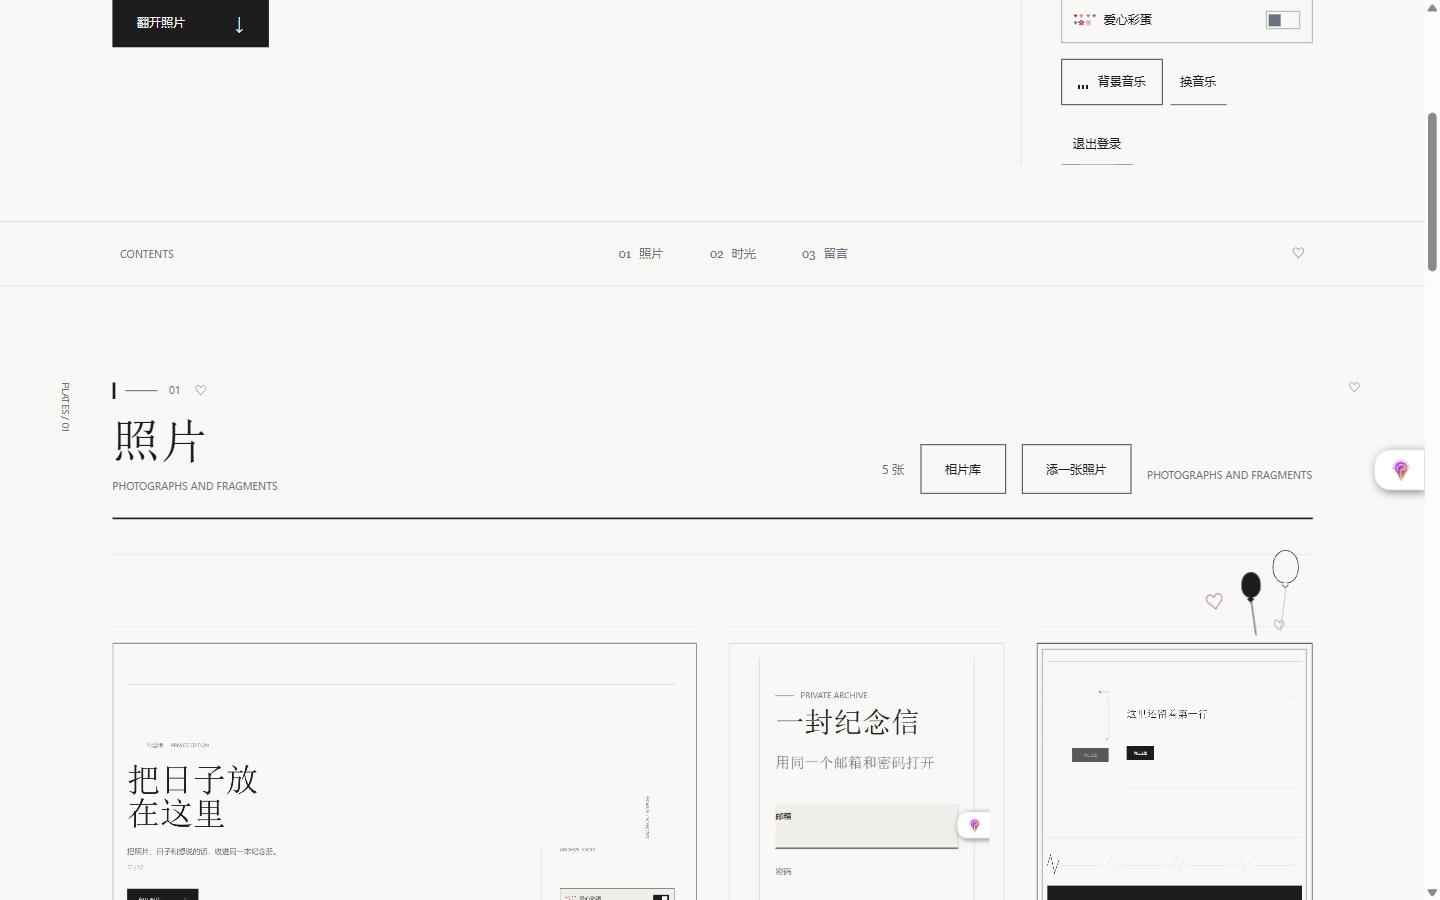
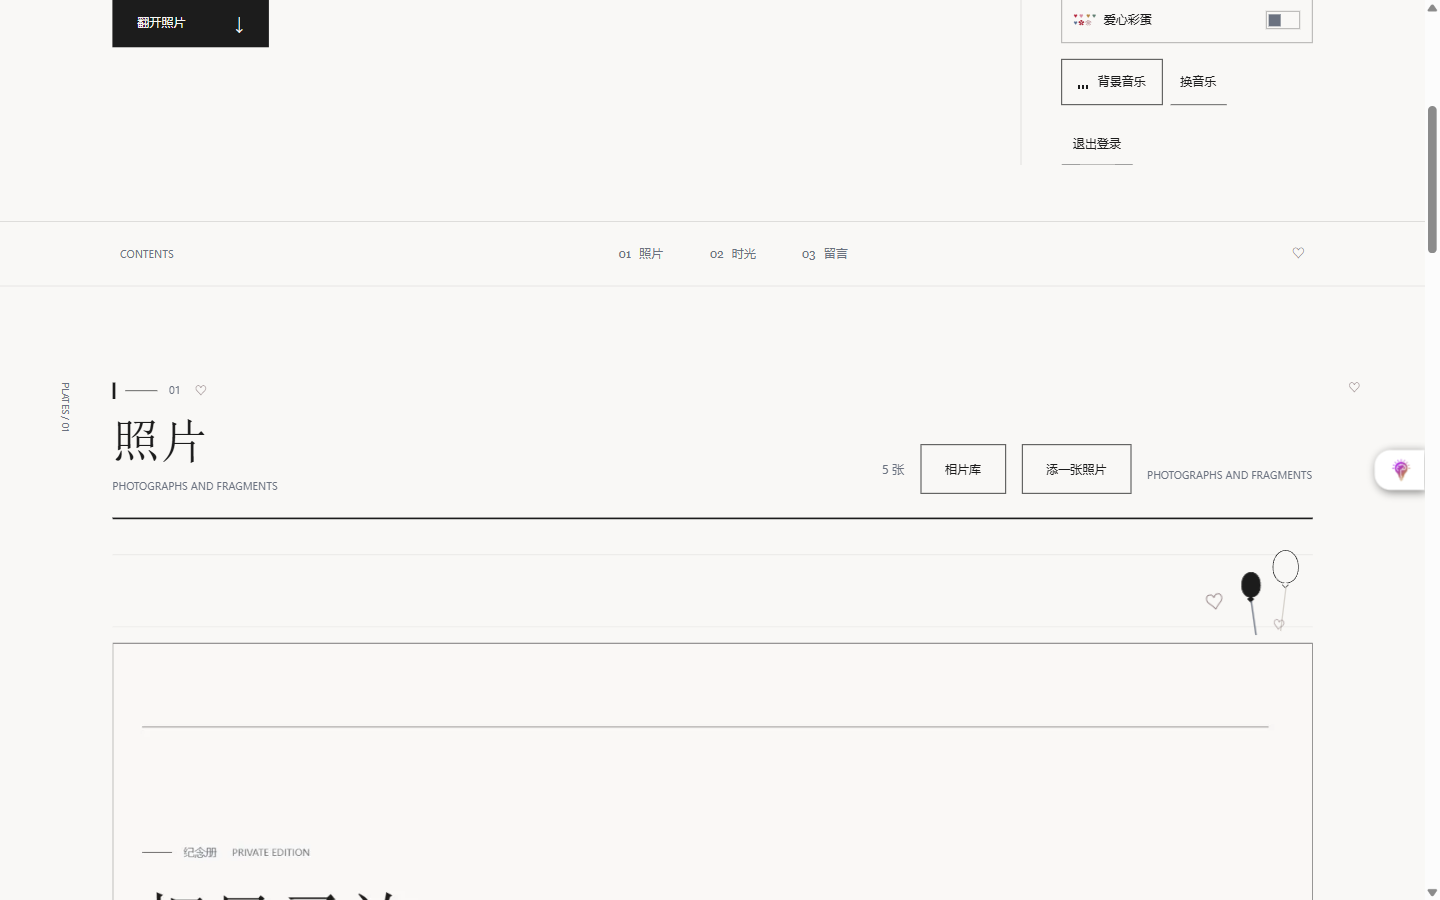
fix: pack photo wall without empty gaps

diff --git a/src/ui/PhotoWall.tsx b/src/ui/PhotoWall.tsx
@@ -54,6 +54,37 @@ export function photoCardClass(index: number, isRecent = false): string {
   return `photo-card ${frame} ${composition}${isRecent ? ' is-new' : ''}`.trim()
 }
 
+export function photoLayoutGroups(count: number): number[][] {
+  const groups: number[][] = []
+
+  for (let index = 0; index < count; index += 1) {
+    if (index % 7 === 0) groups.push([index])
+    else groups[groups.length - 1].push(index)
+  }
+
+  return groups
+}
+
+export function photoColumnCount(viewportWidth: number): number {
+  if (viewportWidth >= 1200) return 4
+  if (viewportWidth >= 768) return 3
+  return 2
+}
+
+export function photoColumnBuckets(indexes: number[], count: number): number[][] {
+  const buckets = Array.from({ length: count }, () => [] as number[])
+  const heights = Array.from({ length: count }, () => 0)
+
+  for (const index of indexes) {
+    const target = heights.indexOf(Math.min(...heights))
+    buckets[target].push(index)
+    heights[target] +=
+      index % 5 === 2 ? 1 : index % 5 === 3 ? 4 / 3 : 5 / 4
+  }
+
+  return buckets
+}
+
 interface PhotoWallProps {
   photos: PhotoItem[]
   cloudState: CloudState
@@ -111,6 +142,23 @@ export function PhotoWall({
   const [selected, setSelected] = useState<PhotoItem | null>(null)
   const [libraryOpen, setLibraryOpen] = useState(false)
   const [recentIds, setRecentIds] = useState<Set<string>>(new Set())
+  const [columnCount, setColumnCount] = useState(() =>
+    photoColumnCount(typeof window === 'undefined' ? 375 : window.innerWidth),
+  )
+
+  useEffect(() => {
+    const desktop = window.matchMedia('(min-width: 1200px)')
+    const tablet = window.matchMedia('(min-width: 768px)')
+    const sync = () => setColumnCount(photoColumnCount(window.innerWidth))
+
+    sync()
+    desktop.addEventListener('change', sync)
+    tablet.addEventListener('change', sync)
+    return () => {
+      desktop.removeEventListener('change', sync)
+      tablet.removeEventListener('change', sync)
+    }
+  }, [])
 
   const closeViewer = useCallback(() => setSelected(null), [])
   const writable =
@@ -221,6 +269,36 @@ export function PhotoWall({
     void processFiles([task.file])
   }
 
+  const renderPhotoCard = (photo: PhotoItem, index: number) => (
+    <article key={photo.id} className={photoCardClass(index, recentIds.has(photo.id))}>
+      <button
+        type="button"
+        className="photo-open"
+        aria-label={`${photo.note || photo.filename}，${formatDate(photo.takenAt)}`}
+        onClick={() => setSelected(photo)}
+      >
+        <span className="photo-frame">
+          <PhotoImage
+            photo={photo}
+            store={store}
+            cloudState={cloudState}
+            className="photo-image"
+            eager={index < 4}
+          />
+        </span>
+        <span className="photo-caption">
+          <time dateTime={photo.takenAt}>{formatDate(photo.takenAt)}</time>
+          {photo.note ? <span>{photo.note}</span> : null}
+        </span>
+      </button>
+      {recentIds.has(photo.id) ? (
+        <span className="photo-fresh-label" aria-hidden="true">
+          新入册
+        </span>
+      ) : null}
+    </article>
+  )
+
   return (
     <section id="photos" className="section photo-section" aria-labelledby="photos-title">
       <header className="section-header">
@@ -297,39 +375,26 @@ export function PhotoWall({
             </button>
           </div>
         ) : (
-          <div className="photo-grid">
-            {photos.map((photo, index) => (
-              <article
-                key={photo.id}
-                className={photoCardClass(index, recentIds.has(photo.id))}
-              >
-                <button
-                  type="button"
-                  className="photo-open"
-                  aria-label={`${photo.note || photo.filename}，${formatDate(photo.takenAt)}`}
-                  onClick={() => setSelected(photo)}
-                >
-                  <span className="photo-frame">
-                    <PhotoImage
-                      photo={photo}
-                      store={store}
-                      cloudState={cloudState}
-                      className="photo-image"
-                      eager={index < 4}
-                    />
-                  </span>
-                  <span className="photo-caption">
-                    <time dateTime={photo.takenAt}>{formatDate(photo.takenAt)}</time>
-                    {photo.note ? <span>{photo.note}</span> : null}
-                  </span>
-                </button>
-                {recentIds.has(photo.id) ? (
-                  <span className="photo-fresh-label" aria-hidden="true">
-                    新入册
-                  </span>
-                ) : null}
-              </article>
-            ))}
+          <div className="photo-album">
+            {photoLayoutGroups(photos.length).map((group) => {
+              const [featureIndex, ...columnIndexes] = group
+              const visibleColumns = Math.min(columnCount, columnIndexes.length)
+              const columns = photoColumnBuckets(columnIndexes, visibleColumns)
+              return (
+                <div className="photo-album-group" key={photos[featureIndex].id}>
+                  {renderPhotoCard(photos[featureIndex], featureIndex)}
+                  {visibleColumns > 0 ? (
+                    <div className="photo-columns" data-columns={visibleColumns}>
+                      {columns.map((indexes, columnIndex) => (
+                        <div className="photo-column" key={columnIndex}>
+                          {indexes.map((index) => renderPhotoCard(photos[index], index))}
+                        </div>
+                      ))}
+                    </div>
+                  ) : null}
+                </div>
+              )
+            })}
           </div>
         )}
       </div>

diff --git a/src/styles.css b/src/styles.css
@@ -5581,3 +5581,126 @@ p {
   }
 }
 
+/* Photo packing, v12: full-width features followed by true vertical columns. */
+.photo-album {
+  display: grid;
+  gap: 80px;
+}
+
+.photo-album-group {
+  min-width: 0;
+  display: grid;
+  gap: 64px;
+}
+
+.photo-columns {
+  display: grid;
+  grid-template-columns: repeat(2, minmax(0, 1fr));
+  gap: 64px 32px;
+}
+
+.photo-columns[data-columns="3"] {
+  grid-template-columns: repeat(3, minmax(0, 1fr));
+}
+
+.photo-columns[data-columns="4"] {
+  grid-template-columns: repeat(4, minmax(0, 1fr));
+}
+
+.photo-column {
+  min-width: 0;
+  display: flex;
+  flex-direction: column;
+  gap: 64px;
+}
+
+.photo-column .photo-card {
+  width: 100%;
+  display: block;
+  margin: 0;
+}
+
+.photo-library-grid {
+  display: block;
+  column-fill: balance;
+}
+
+.photo-feature {
+  width: 100%;
+  display: block;
+  grid-column: auto;
+  break-inside: avoid;
+  margin: 0;
+}
+
+.photo-offset {
+  margin-top: 0;
+}
+
+.photo-tall {
+  align-self: auto;
+}
+
+.photo-grid {
+  display: grid;
+  grid-template-columns: repeat(2, minmax(0, 1fr));
+  column-gap: 16px;
+  row-gap: 48px;
+}
+
+.photo-library-grid {
+  columns: 4;
+  column-gap: 24px;
+}
+
+.photo-library-card {
+  width: 100%;
+  display: inline-block;
+  break-inside: avoid;
+  margin: 0 0 32px;
+  vertical-align: top;
+}
+
+@media (min-width: 768px) and (max-width: 1199px) {
+  .photo-library-grid {
+    columns: 3;
+  }
+
+  .photo-grid {
+    grid-template-columns: repeat(3, minmax(0, 1fr));
+  }
+}
+
+@media (min-width: 1200px) {
+  .photo-grid {
+    grid-template-columns: repeat(4, minmax(0, 1fr));
+  }
+}
+
+@media (max-width: 767px) {
+  .photo-album {
+    gap: 56px;
+  }
+
+  .photo-album-group {
+    gap: 48px;
+  }
+
+  .photo-columns {
+    gap: 48px 16px;
+  }
+
+  .photo-column {
+    gap: 48px;
+  }
+
+  .photo-library-grid {
+    columns: 2;
+    column-gap: 16px;
+  }
+
+  .photo-library-card {
+    margin-bottom: 24px;
+  }
+}
+

diff --git a/tests/photo-layout.spec.ts b/tests/photo-layout.spec.ts
@@ -2,6 +2,9 @@ import { describe, expect, it } from 'vitest'
 import {
   PHOTO_FRAME_CLASSES,
   photoCardClass,
+  photoColumnBuckets,
+  photoColumnCount,
+  photoLayoutGroups,
 } from '../src/ui/PhotoWall'
 
 describe('photo wall composition', () => {
@@ -21,5 +24,27 @@ describe('photo wall composition', () => {
     expect(photoCardClass(1, true)).toContain('frame-matte')
     expect(photoCardClass(1, true)).toContain('is-new')
     expect(photoCardClass(1, false)).not.toContain('is-new')
+  })
+
+  it('groups each full-width feature with the following column photos', () => {
+    expect(photoLayoutGroups(0)).toEqual([])
+    expect(photoLayoutGroups(8)).toEqual([
+      [0, 1, 2, 3, 4, 5, 6],
+      [7],
+    ])
+    expect(photoLayoutGroups(10)[1]).toEqual([7, 8, 9])
+  })
+
+  it('uses two, three, and four columns at the responsive breakpoints', () => {
+    expect(photoColumnCount(375)).toBe(2)
+    expect(photoColumnCount(768)).toBe(3)
+    expect(photoColumnCount(1440)).toBe(4)
+  })
+
+  it('balances photos across every available column', () => {
+    const buckets = photoColumnBuckets([1, 2, 3, 4, 5, 6], 4)
+    expect(buckets).toHaveLength(4)
+    expect(buckets.every((bucket) => bucket.length > 0)).toBe(true)
+    expect(buckets.flat().sort((a, b) => a - b)).toEqual([1, 2, 3, 4, 5, 6])
   })
 })

diff --git a/docs/ACCEPTANCE-REPORT.md b/docs/ACCEPTANCE-REPORT.md
@@ -36,7 +36,7 @@
 | A26 [P0] | 通过 | 源码、环境示例与 `dist` | 扫描真实管理密钥与 JWT | 未发现管理密钥赋值或真实密钥；安全警示文字不参与判定 |
 | A27 [P0] | 通过 | 本地 Git 仓库 `main` | 初始化、创建根提交、检查 `.env` 历史/索引和工作区 | `.env` 历史 0 条；`git ls-files --error-unmatch .env` 退出 1；工作区干净；`docs/evidence/A27-git-isolation.txt` |
 | A28 | 未验证 | 登录后 production | ZIP 在新会话恢复 | 鉴权改造后尚未重跑恢复闭环 |
-| A29 | 通过 | production 375 / 768 / 1440 | 渲染 7 张以上照片并检查主照片和轨道 | 每 7 张一张跨两列 3:2 主照片；375/768/1440 保持 2/3/4 轨道，无横向溢出；`docs/UI-POLISH-REPORT.md` |
+| A29 | 通过 | production 375 / 768 / 1440 | 渲染 7 张以上照片并检查主图和列桶 | 每 7 张首张独立整行并保持 3:2；其余照片按高度权重进入 2/3/4 个均衡列桶，混合 4:5、1:1、3:4 与错位节奏，无横向溢出；`docs/UI-POLISH-REPORT.md` |
 | A30 | 通过 | production 375 / 768 / 1440 | 检查气球、爱心、间距和点击层 | 两枚黑白线稿气球和两枚陈玫色爱心独立成带，与标题间距 20–34px，`aria-hidden` 且不拦截操作 |
 | A31 | 通过 | Edge production 375×812 + 私有 `music` Storage | 播放默认音轨；从“换音乐”上传 WAV；刷新；恢复默认 | 上传后的 `audio.src` 为 Supabase 私有签名地址；刷新后仍读到自选音轨；“恢复默认”后重新使用 `/audio/memory-theme.wav`；迁移连续执行两次成功 |
 | A32 | 通过 | production 375 / 768 / 1440 | 核对暖米纸编辑部主题、字体、发丝线、留白、直角和响应式 | 页面底色 `#F9F8F6`、标题为衬线、正文为无衬线；375/768/1440 为 2/3/4 轨、无横向溢出；普通卡片无阴影且圆角为 0；音乐按钮 46px 高 |
@@ -44,7 +44,7 @@
 | A34 | 通过 | production 375 / 768 / 1440 | 切换爱心彩蛋开关，检查粒子、类型、挂载点、点击穿透和减少动态 | 开启后生成 70 枚彩蛋：50 枚五色小爱心、10 枚玫瑰、10 枚花苞；开关具有 `role="switch"` 与 `aria-checked`；层固定挂载到 `BODY`，`pointer-events: none` 且 `aria-hidden`；关闭后粒子归零；减少动态时静态排列 |
 | A35 | 通过 | production 375 / 768 / 1440 | 滚动至留言区与页脚之间，检查心电波形、动画和减少动态 | 分隔带宽 320/657/1200px，均无横向溢出并与页脚保持 32px 间距；脉段颜色 `rgb(28,28,28)`，动画 `heartbeat-scan` 5.6s；减少动态时动画 `none`、显示完整静态波形；`docs/evidence/heartbeat-trace-1440.png` |
 | A36 | 通过 | Edge production 375×812 / 真实共享账号 | 新增临时留言 → 点击“移走这条” → 二次确认 → 刷新 | 仅云端留言显示删除入口；确认弹层标题为“要把这条留言移走吗”；`messages.delete` 成功后条数恢复为 `0`，刷新后不再出现；按钮 49×44px，页面无横向溢出；`docs/evidence/A36-message-delete.txt` |
-| A37 | 通过 | production preview 375×812 / 768×1024 / 1440×900 | 一次上传 5 张临时照片，检查相框、画幅、相片库、查看与删除 | 命中 5 种相框和 3:2、4:5、1:1、3:4、错位 4:5 五种节奏；相片库显示 5 张并可进入大图；逐张删除后刷新为 0，无横向溢出；`docs/evidence/photo-frames-1440.png`、`photo-library-1440.png` |
+| A37 | 通过 | production preview 375×812 / 768×1024 / 1440×900 / 真实上传 | 一次上传 5 张临时照片，检查相框、列桶、相片库、查看与删除 | 命中 5 种相框和 3:2、4:5、1:1、3:4、错位 4:5；375/768/1440 普通照片列宽 320/657/1200 并分别使用 2/3/4 列；相片库显示 5 张并可进入大图；逐张删除后刷新为 0，无横向溢出；`docs/evidence/photo-frames-1440.png`、`photo-library-1440.png` |
 
 ## 真实 Supabase 配置
 
@@ -60,7 +60,7 @@
 ## 最新门禁
 
 ```text
-npm test          12 files / 55 tests passed
+npm test          12 files / 58 tests passed
 npm run typecheck exit 0
 npm run build     exit 0, 106 modules
 ```

diff --git a/docs/SPEC.md b/docs/SPEC.md
@@ -42,7 +42,7 @@
 
 ### F-04 照片墙
 入口：主站默认内容区。  
-行为：375px 为 2 列，768px 为 3 列，1200px 为 4 列；每 7 张照片安排一张跨两列的 3:2 主照片，并循环使用方幅、竖幅与向下错位节奏；照片带拍摄日期与可选说明；五类编辑相框循环应用；点击照片打开只读大图查看层。
+行为：375px 为 2 列，768px 为 3 列，1200px 为 4 列；每 7 张照片安排一张独立占满整行的 3:2 主照片，其余照片通过列桶均衡分布并循环使用方幅、竖幅与向下错位节奏；照片带拍摄日期与可选说明；五类编辑相框循环应用；点击照片打开只读大图查看层。
 边界：照片区提供“相片库”入口，集中展示全部照片缩略图；相片库使用相同的照片数据与查看层，不创建第二份媒体副本。标题与网格间可出现不可交互的两枚黑白纸片气球和两枚小面积陈玫色爱心；装饰不得遮挡内容。图片懒加载；每张都有可读替代文本；大图可用 Escape 关闭，焦点返回原照片；无照片时进入 F-10。
 失败：单张签名地址不可用时显示同尺寸纸张占位与说明，不影响其他照片；整组云端照片不可用时保留公开壳层、已认证会话的本地文本快照和可理解的降级提示，不展示未授权内容。
 

diff --git a/docs/ACCEPTANCE.md b/docs/ACCEPTANCE.md
@@ -44,7 +44,7 @@
 
 ## D. 视觉与音乐增量
 
-- [ ] **A29 非均匀照片编排**：有至少 7 张照片时，每 7 张中的首张横跨两列并保持 3:2，其余照片仍为 4:5；375/768/1440 分别保持 2/3/4 个轨道且无横向溢出。
+- [ ] **A29 非均匀照片编排**：有至少 7 张照片时，每 7 张中的首张作为独立整行 3:2 主图；其余照片按高度权重分布到 2/3/4 个均衡列桶，并混合 4:5、1:1、3:4 与错位节奏；三档均无横向溢出。
 - [ ] **A30 庆祝点缀不干扰**：照片区显示两枚黑白线稿气球和两枚陈玫色爱心；装饰 `aria-hidden`、不拦截点击、不覆盖标题或按钮，陈玫色只用于小面积爱心或选中态。
 - [ ] **A31 自定义背景音乐**：登录后可播放/暂停循环音轨，并通过“换音乐”上传不超过 16MB 的 MP3、WAV 或 M4A；音频保存到私有 `music` 桶，刷新及另一登录客户端可读取；“恢复默认”清理自选音轨；按钮至少 44px 且不影响导航布局。
 - [ ] **A32 编辑部杂志风**：生产页面使用暖米纸画布、衬线标题与无衬线正文；普通卡片、按钮、输入、照片和弹层圆角为 0，普通元素无阴影、无渐变；区块间距桌面至少 96px，375/768/1440 无横向溢出且所有可见操作控件至少 44px。

diff --git a/docs/UI-POLISH-REPORT.md b/docs/UI-POLISH-REPORT.md
@@ -122,7 +122,8 @@
 ## 11. v11 混合相框与相片库
 
 - 五类相框循环应用：黑色细框、白卡纸、双线框、深墨框和灰纸内衬；相框只用边线、留白和纸色，不使用阴影或圆角。
-- 照片按主图 3:2、普通 4:5、方幅 1:1、竖幅 3:4 和向下错位节奏混合排列，375/768/1440 继续保持 2/3/4 轨。
+- 每 7 张首张作为独立整行 3:2 主图；其余照片按高度权重分配到 2/3/4 个均衡列桶，避免等行高网格留下内部空槽。
+- 普通照片混合 4:5、1:1、3:4 和向下错位节奏；375/768/1440 分别使用 2/3/4 列。
 - 照片区新增“相片库”，以 4/3/2 列 contact sheet 集中展示全部照片；点击缩略图进入现有大图查看、删除和二次确认流程。
 - 相片库复用现有照片数据与签名地址缓存，不复制媒体，不改变上传、删除、Auth 或 Storage 权限。
 
@@ -143,7 +144,7 @@
 ## 12. 门禁
 
 ```text
-npm test          12 files / 55 tests passed
+npm test          12 files / 58 tests passed
 npm run typecheck exit 0
 npm run build     exit 0，106 modules
 ```

diff --git a/docs/DESIGN.md b/docs/DESIGN.md
@@ -106,7 +106,7 @@
 
 ## 8. 照片墙与庆祝装饰
 
-- 照片按 3:2 主图、4:5 普通图、1:1 方幅、3:4 竖幅和向下错位节奏循环排列；每 7 张首张继续跨两列。
+- 每 7 张首张作为独立整行 3:2 主图；其余照片按高度权重分配到 2/3/4 个均衡列桶，并循环使用 4:5 普通图、1:1 方幅、3:4 竖幅和向下错位节奏。
 - 照片循环应用黑色细框、白卡纸、双线框、深墨框和灰纸内衬五类相框；所有相框只用边线、纸色与留白，无圆角无阴影。
 - 相片库使用同一照片数据生成 contact sheet，375/768/1440 为 2/3/4 列；点击缩略图进入原大图查看、删除和二次确认流程。
 - 选择照片后立即显示真实缩略图与处理状态；上传成功后原位出现正文照片、`新入册` 标记和一次短促入场，当前批次无需等待文件列表刷新。
